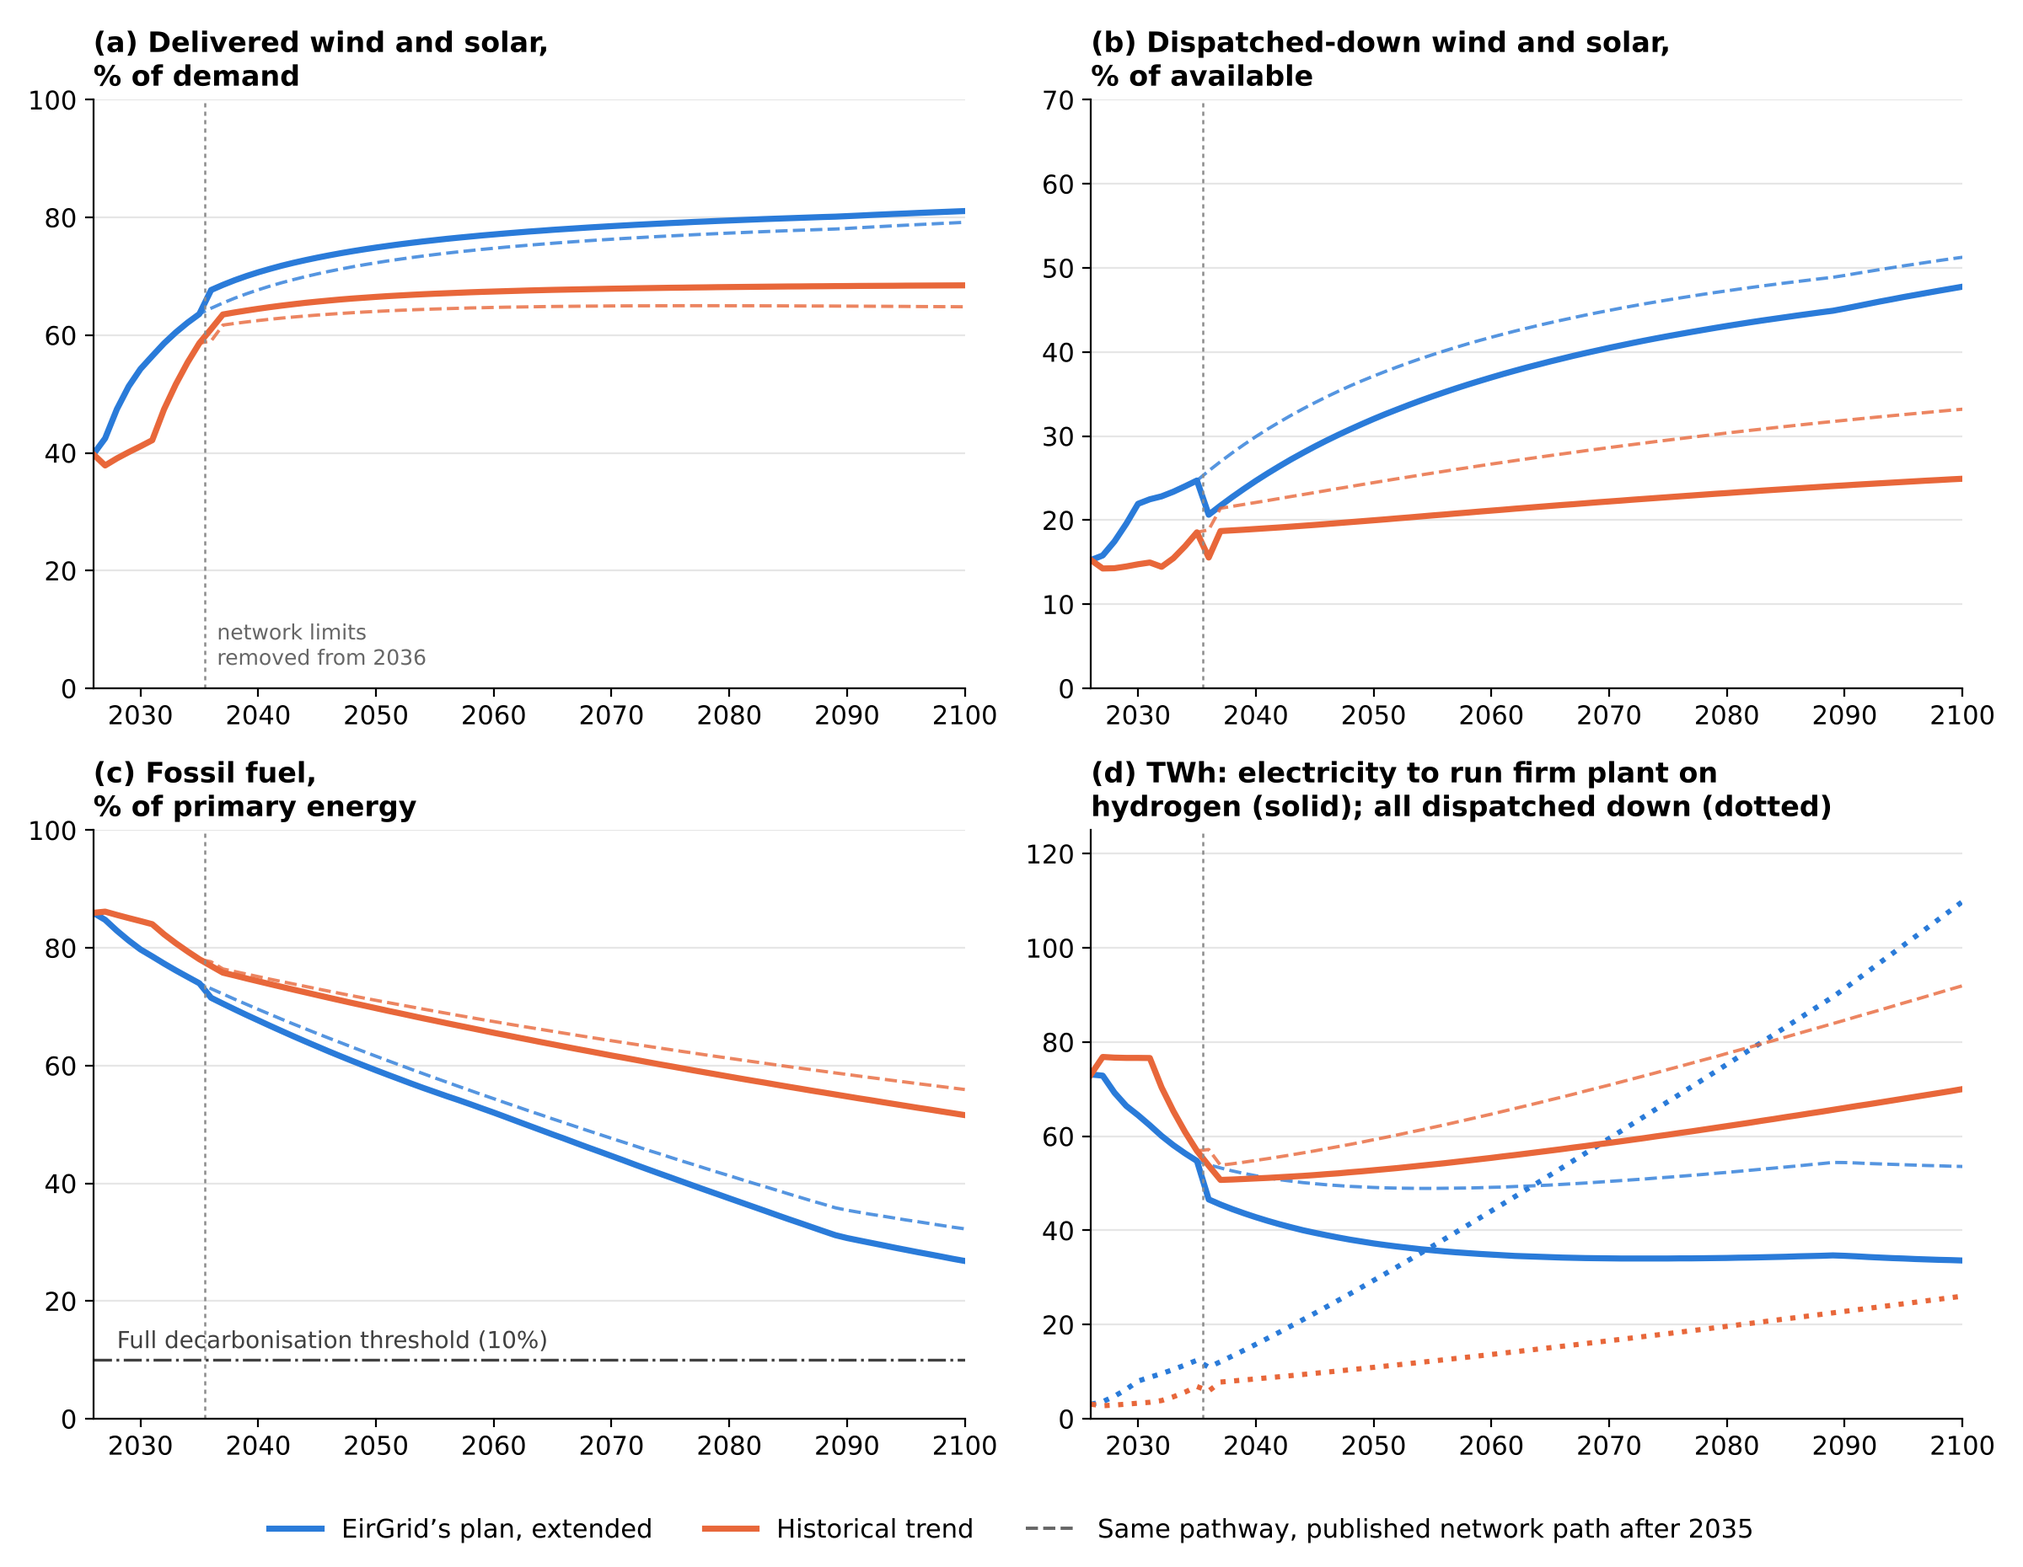
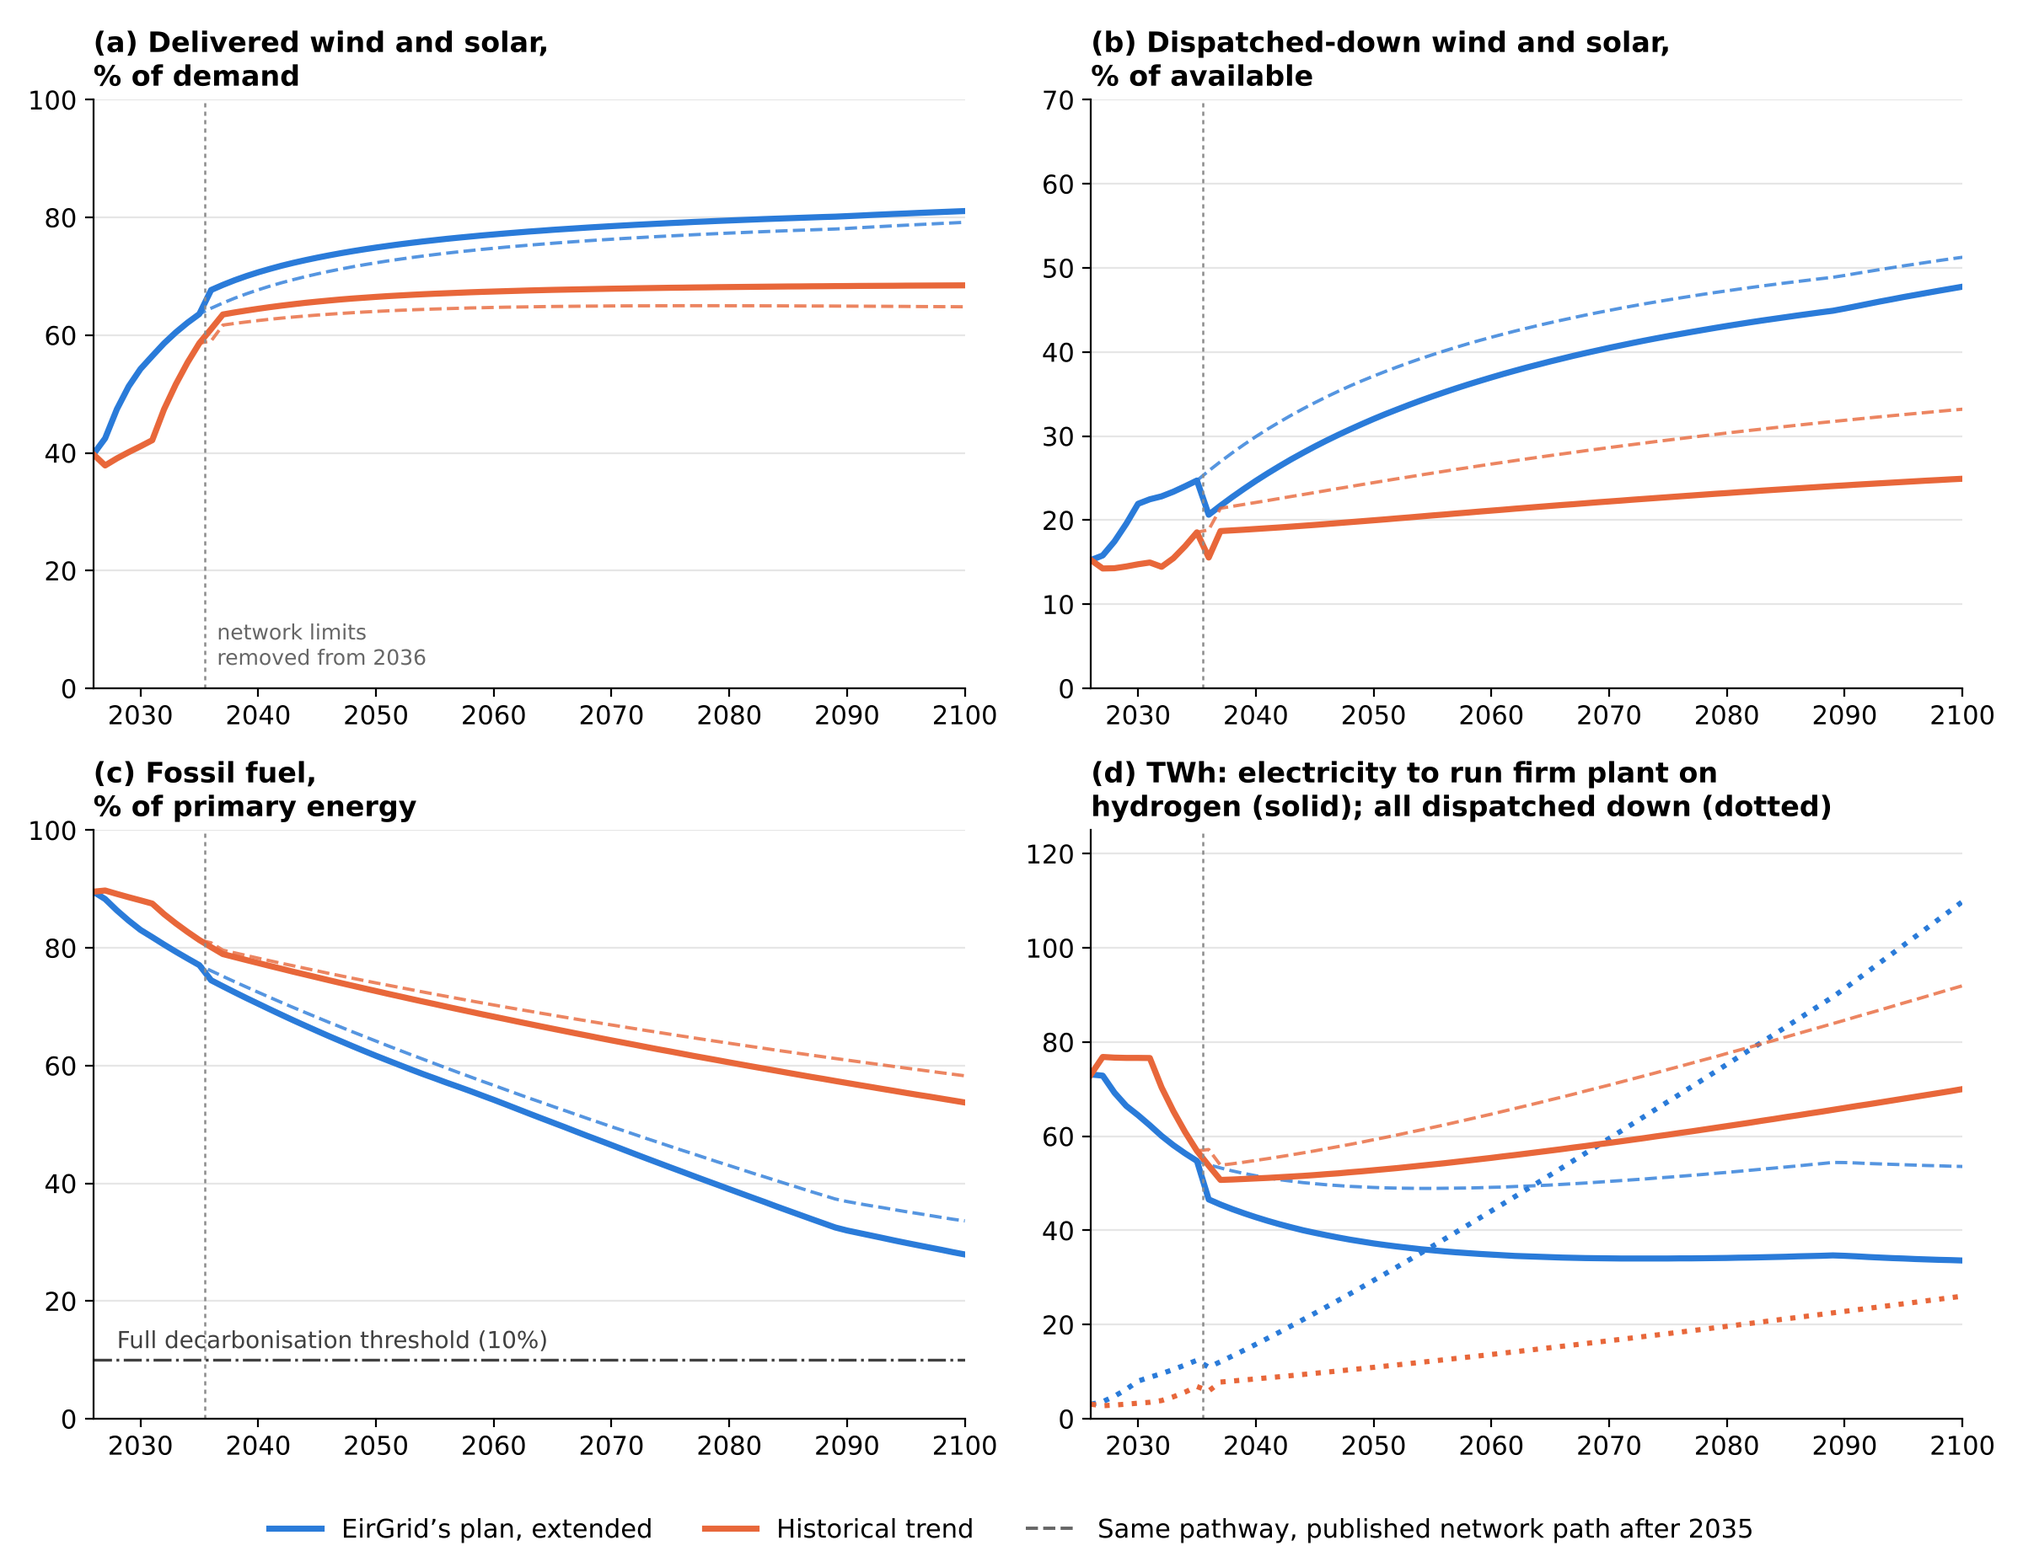
Rerun on headline shares without the import allowance; changelog, context, equations
Main pathways, published network path, sensitivity and grid reinforcement
studies and the Table 9 cases rerun. Old and new values in CHANGELOG.md.
Figure 6 redrawn.

Claude-Session: https://claude.ai/code/session_011KZyocf1PbMayKKXJTcfWA

Changed region(s): [[0.0312, 0.5613, 0.4688, 0.8108]]

diff --git a/analysis/output/sensitivity/sensitivity_tables.md b/analysis/output/sensitivity/sensitivity_tables.md
@@ -2,34 +2,34 @@
 
 | change   |   demand_TWh |   wind_GW |   solar_GW |   fossil_pct |   renewable_pct |   constraint_pct |   curtailment_pct |   wind_cf_pct |   solar_cf_pct |   firm_GW |
 |:---------|-------------:|----------:|-----------:|-------------:|----------------:|-----------------:|------------------:|--------------:|---------------:|----------:|
-| base     |         74   |      24.6 |       20.6 |         59.2 |            36.8 |                0 |              32   |          19.2 |            7.7 |      13.2 |
-| +50%     |         77.4 |      24.6 |       20.6 |         54.3 |            41.7 |                0 |              30.2 |          19.8 |            7.9 |      14.3 |
-| +100%    |         80.8 |      24.6 |       20.6 |         49   |            47   |                0 |              28.5 |          20.4 |            8.1 |      15.4 |
-| +150%    |         84.1 |      24.6 |       20.6 |         43.4 |            52.6 |                0 |              26.8 |          21   |            8.3 |      16.5 |
+| base     |         74   |      24.6 |       20.6 |         61.7 |            38.3 |                0 |              32   |          19.2 |            7.7 |      13.2 |
+| +50%     |         77.4 |      24.6 |       20.6 |         56.5 |            43.5 |                0 |              30.2 |          19.8 |            7.9 |      14.3 |
+| +100%    |         80.8 |      24.6 |       20.6 |         51   |            49   |                0 |              28.5 |          20.4 |            8.1 |      15.4 |
+| +150%    |         84.1 |      24.6 |       20.6 |         45.2 |            54.8 |                0 |              26.8 |          21   |            8.3 |      16.5 |
 
 ### Heat and transport electrification pace, 2100
 
 | change   |   demand_TWh |   wind_GW |   solar_GW |   fossil_pct |   renewable_pct |   constraint_pct |   curtailment_pct |   wind_cf_pct |   solar_cf_pct |   firm_GW |
 |:---------|-------------:|----------:|-----------:|-------------:|----------------:|-----------------:|------------------:|--------------:|---------------:|----------:|
-| base     |        128.8 |      58.3 |       56.6 |         26.8 |            69.2 |                0 |              47.8 |          15.2 |            5.4 |      21.8 |
-| +50%     |        132.3 |      58.3 |       56.6 |         19.4 |            76.6 |                0 |              46.8 |          15.6 |            5.4 |      24   |
-| +100%    |        132.6 |      58.3 |       56.6 |         16.1 |            79.9 |                0 |              46.8 |          15.6 |            5.4 |      24.8 |
-| +150%    |        130.6 |      58.3 |       56.6 |         15.7 |            80.3 |                0 |              47.5 |          15.4 |            5.3 |      24.6 |
+| base     |        128.8 |      58.3 |       56.6 |         27.9 |            72.1 |                0 |              47.8 |          15.2 |            5.4 |      21.8 |
+| +50%     |        132.3 |      58.3 |       56.6 |         20.2 |            79.8 |                0 |              46.8 |          15.6 |            5.4 |      24   |
+| +100%    |        132.6 |      58.3 |       56.6 |         16.8 |            83.2 |                0 |              46.8 |          15.6 |            5.4 |      24.8 |
+| +150%    |        130.6 |      58.3 |       56.6 |         16.4 |            83.6 |                0 |              47.5 |          15.4 |            5.3 |      24.6 |
 
 ### Wind, solar and battery build rate, 2050
 
 | change   |   demand_TWh |   wind_GW |   solar_GW |   fossil_pct |   renewable_pct |   constraint_pct |   curtailment_pct |   wind_cf_pct |   solar_cf_pct |   firm_GW |
 |:---------|-------------:|----------:|-----------:|-------------:|----------------:|-----------------:|------------------:|--------------:|---------------:|----------:|
-| base     |           74 |      24.6 |       20.6 |         59.2 |            36.8 |                0 |              32   |          19.2 |            7.7 |      13.2 |
-| +50%     |           74 |      29.7 |       26   |         57.1 |            38.9 |                0 |              41   |          16.8 |            6.5 |      13.1 |
-| +100%    |           74 |      34.7 |       31.4 |         55.1 |            40.9 |                0 |              48.5 |          14.8 |            5.6 |      13   |
-| +150%    |           74 |      39.8 |       36.8 |         54   |            42   |                0 |              54.7 |          13.2 |            4.9 |      12.9 |
+| base     |           74 |      24.6 |       20.6 |         61.7 |            38.3 |                0 |              32   |          19.2 |            7.7 |      13.2 |
+| +50%     |           74 |      29.7 |       26   |         59.4 |            40.6 |                0 |              41   |          16.8 |            6.5 |      13.1 |
+| +100%    |           74 |      34.7 |       31.4 |         57.4 |            42.6 |                0 |              48.5 |          14.8 |            5.6 |      13   |
+| +150%    |           74 |      39.8 |       36.8 |         56.3 |            43.7 |                0 |              54.7 |          13.2 |            4.9 |      12.9 |
 
 ### Wind, solar and battery build rate, 2100
 
 | change   |   demand_TWh |   wind_GW |   solar_GW |   fossil_pct |   renewable_pct |   constraint_pct |   curtailment_pct |   wind_cf_pct |   solar_cf_pct |   firm_GW |
 |:---------|-------------:|----------:|-----------:|-------------:|----------------:|-----------------:|------------------:|--------------:|---------------:|----------:|
-| base     |        128.8 |      58.3 |       56.6 |         26.8 |            69.2 |                0 |              47.8 |          15.2 |            5.4 |      21.8 |
-| +50%     |        128.8 |      80.2 |       80.1 |         22.5 |            73.5 |                0 |              61.4 |          11.7 |            4   |      21.4 |
-| +100%    |        128.8 |     102   |      103.6 |         20.9 |            75.1 |                0 |              69.7 |           9.5 |            3.1 |      21.1 |
-| +150%    |        128.8 |     123.9 |      127   |         20   |            76   |                0 |              75.1 |           8   |            2.6 |      20.5 |
+| base     |        128.8 |      58.3 |       56.6 |         27.9 |            72.1 |                0 |              47.8 |          15.2 |            5.4 |      21.8 |
+| +50%     |        128.8 |      80.2 |       80.1 |         23.5 |            76.5 |                0 |              61.4 |          11.7 |            4   |      21.4 |
+| +100%    |        128.8 |     102   |      103.6 |         21.7 |            78.3 |                0 |              69.7 |           9.5 |            3.1 |      21.1 |
+| +150%    |        128.8 |     123.9 |      127   |         20.8 |            79.2 |                0 |              75.1 |           8   |            2.6 |      20.5 |

diff --git a/CHANGELOG.md b/CHANGELOG.md
@@ -3,6 +3,32 @@
 Handover record of changes to `DemonstratorV2.py` and its data builder `build_all_island_dd.py`.
 The full methodology is in `Technical_Briefing_README.docx`.
 
+## Headline shares count no imported electricity: 12 November 2026
+
+Change to the accounting (decision recorded in `CONTEXT.md`, for group agreement). `FIXED_IMPORT_SHARE_PCT` now defaults to 0 (was 4). The main runs have no interconnector flows in the dispatch, so firm plant meets all demand not met by wind, solar and batteries, and the shares now count no imported electricity. The fixed 4% of primary energy counted as imported electricity before was about 7.9 TWh a year; the dispatch imports 3.8 TWh in 2050 on EirGrid_Extended with interconnectors at 70% of capacity and 5.2 TWh at 100%. `GAMMA_IMPORT_SHARE=4` restores the allowance.
+
+No change to the dispatch: dispatch down, firm generation, firm capacity, gas and the renewable shares of electricity demand and of gross final energy are unchanged. Every fossil share from a run without interconnector dispatch rises by the factor 1/0.96. The interconnector sensitivity (entry below) is unchanged, and its 0% case now equals the main run.
+
+Rerun on this code: main pathways to 2100; published network path after 2035; `analysis/sensitivity_study.py`; `analysis/grid_reinforcement_study.py`; EirGrid_Extended with the residual at zero and doubled, heat COP 2.5, firm efficiencies 60% and 42% and 50% and 34%, and offshore at 45% in 2020; both pathways with every firm unit at 35% and with COP 3.9. The COP and efficiency cases were run by changing the constants in a copy of `Gamma.py`. Figure 6 redrawn (`analysis/output/paper/figure6_projections.png`). Not rerun: the network-frozen and sigma cases of the robustness study (branch `analysis/robustness-study`), whose switches are not on `main`; the upper end of the range across dispatch-down assumptions, 63.0%, is scaled to 65.6%.
+
+| Fossil share of primary energy (%) unless stated | Before | Now |
+|---|---|---|
+| EirGrid_Extended 2026 / 2035 / 2050 / 2075 / 2100 | 86.0 / 74.0 / 59.2 / 41.0 / 26.8 | 89.5 / 77.1 / 61.7 / 42.7 / 27.9 |
+| Historical_Trend 2035 / 2050 / 2075 / 2100 | 78.1 / 69.8 / 59.9 / 51.6 | 81.3 / 72.7 / 62.4 / 53.7 |
+| Fossil share of gross final energy, EirGrid_Extended 2050 / 2100; Historical_Trend 2050 | 56.1 / 20.3; 67.3 | 58.4 / 21.1; 70.1 |
+| Published network path kept after 2035, EirGrid_Extended 2050 | 61.6 | 64.2 |
+| IE headroom growth 0 / 1 / 2 / 4 / 7.3% a year, limits kept, 2050 | 61.9 / 61.4 / 61.0 / 60.4 / 59.7 | 64.4 / 63.9 / 63.5 / 62.9 / 62.2 |
+| Electrification +150% / build +150%, 2050 | 43.4 / 54.0 | 45.2 / 56.3 |
+| Residual at zero / doubled, 2050 | 57.5 / 60.9 | 59.9 / 63.4 |
+| Heat COP 2.5, 2050 | 61.6 | 64.2 |
+| Firm efficiencies 60% and 42% / 50% and 34%, 2050 | 58.7 / 59.8 | 61.1 / 62.3 |
+| Offshore at 45% in 2020, 2050 | 58.8 | 61.3 |
+| Range across dispatch-down assumptions, 2050 | 57.5 to 63.0 | 59.9 to 65.6 (upper end scaled) |
+| Every firm unit at 35%: share higher by (points, 2050 and 2100, both pathways) | 1.4 to 4.0 | 1.4 to 4.2 |
+| COP 3.9: share lower by (points) | 0.8 to 2.3 | 0.8 to 2.4 |
+
+Neither pathway reaches the 10% threshold by 2100, as before.
+
 ## Energy shares in interconnector runs use the dispatched imports: 12 November 2026
 
 Correction to the accounting. No change to the dispatch or to the main runs. With interconnector flows in the dispatch (`GAMMA_IC_DISPATCH=1`), the fixed 4% import allowance (`FIXED_IMPORT_SHARE_PCT`) was still applied on top of the imports in the dispatch, and the dispatched imports were left out of the denominator of the shares. Imports were counted twice, and the imported share was reported as 4% whatever was imported. In these runs the shares now use the electricity imported in the dispatch, counted at the electricity delivered, and no fixed allowance. The same applies to the gross final energy shares.

diff --git a/CONTEXT.md b/CONTEXT.md
@@ -37,7 +37,7 @@ An independent, evidence-based assessment of Ireland's energy system, aiming for
 - 2 November 2026: transport ceiling is land transport only (62.2 TWh all-island); EirGrid_Extended and Historical_Trend raise battery fleet duration to 4 h by 2035 with the MW build unchanged; the paper names each share by its denominator (primary energy, gross final energy, electricity demand) and uses SEAI's RES Overall only for the gross final share. See `CHANGELOG.md`.
 - The ECP-GSS-2 prediction (`analysis/gss2_prediction_2035.csv`) was made before EirGrid publishes on 15 December 2026. Its central case is the published network path, from 7 November 2026 (it was cover 40% before the AIRAA demand correction); cover 40% is the other end of the range. The 7 November rows were registered as final. On 8 November an error was found in the constraint closed form (equation 3); corrected rows dated 8 November were added before publication, with the sigma interval, and the 7 November rows are kept as registered. The paper reports both.
 
-- 12 November 2026: the headline fossil share keeps the fixed 4% allowance for imported electricity (`FIXED_IMPORT_SHARE_PCT`), although the main runs have no imports in the dispatch. The paper states the share without it as a sensitivity (61.7% against 59.2% in 2050 on EirGrid_Extended).
+- 12 November 2026: the headline fossil share counts no imported electricity. The fixed 4% allowance (`FIXED_IMPORT_SHARE_PCT`) is off by default, because the main runs have no imports in the dispatch and the allowance was larger than the imports the dispatch gives in 2050 even with interconnectors at full capacity. This reverses the decision of earlier the same day to keep it. Headline 2050 fossil share: 61.7% on EirGrid_Extended and 72.7% on Historical_Trend (59.2% and 69.8% with the allowance). Imports are shown only in the interconnector sensitivity, from the dispatch (60.2% and 68.4% at 70% of capacity). For group agreement.
 - 12 November 2026: demand growth since 2026 that is neither heat-pump nor transport load is added as flat load, because most of it is data-centre demand. It was scaled on the recorded demand shape before, which overstated peak demand, firm capacity and the worst gas day. `GAMMA_FLAT_GROWTH=0` reproduces the earlier results.
 - 8 November 2026: target journal under discussion (Energy Economics raised). Every quantity the model computes is written as an equation in `docs/model_equations.md` and Supplementary S2; keep them in step with `Gamma.py`.
 

diff --git a/docs/model_equations.md b/docs/model_equations.md
@@ -133,9 +133,9 @@ $$\eta^{fleet} = \left(\frac{1-p}{0.55} + \frac{p}{0.38}\right)^{-1}.$$
 
 Electricity from firm plant (including the residual $R_y$) counts as gas burnt, $G_y = F^{cons}_y/\eta^{fleet}_y$. With remaining fossil heat $H^{f}_y$ and transport fuel $T^{f}_y$, ambient heat $A^{hp}_y = (\mathrm{COP}-1)E^{heat,el}_y$, and wind, solar and battery output consumed $V^{cons}_y$:
 
-$$\text{fossil share of primary energy} = (1 - m)\,\frac{H^f_y + T^f_y + G_y}{H^f_y + T^f_y + G_y + A^{hp}_y + V^{cons}_y}, \qquad m = 0.04 .$$
+$$\text{fossil share of primary energy} = \frac{H^f_y + T^f_y + G_y}{H^f_y + T^f_y + G_y + A^{hp}_y + V^{cons}_y + M_y} .$$
 
-The share of gross final energy is the same with $G_y$ replaced by $F^{cons}_y$. Full decarbonisation is the first $y$ with fossil share $\le 10\%$. Setting $m = 0$ multiplies every fossil share by $1/(1-m) = 1.042$.
+The share of gross final energy is the same with $G_y$ replaced by $F^{cons}_y$. Full decarbonisation is the first $y$ with fossil share $\le 10\%$. $M_y$ is the electricity imported in the dispatch: zero in the main runs, which have no interconnector flows, and the dispatched imports in the interconnector runs (`GAMMA_IC_DISPATCH=1`). Until 12 November 2026 the main runs multiplied the share by $(1 - m)$ with $m = 0.04$, a fixed allowance for imported electricity; `GAMMA_IMPORT_SHARE=4` restores it and multiplies every fossil share by 0.96.
 
 ## 10. Hydrogen for firm plant
 
